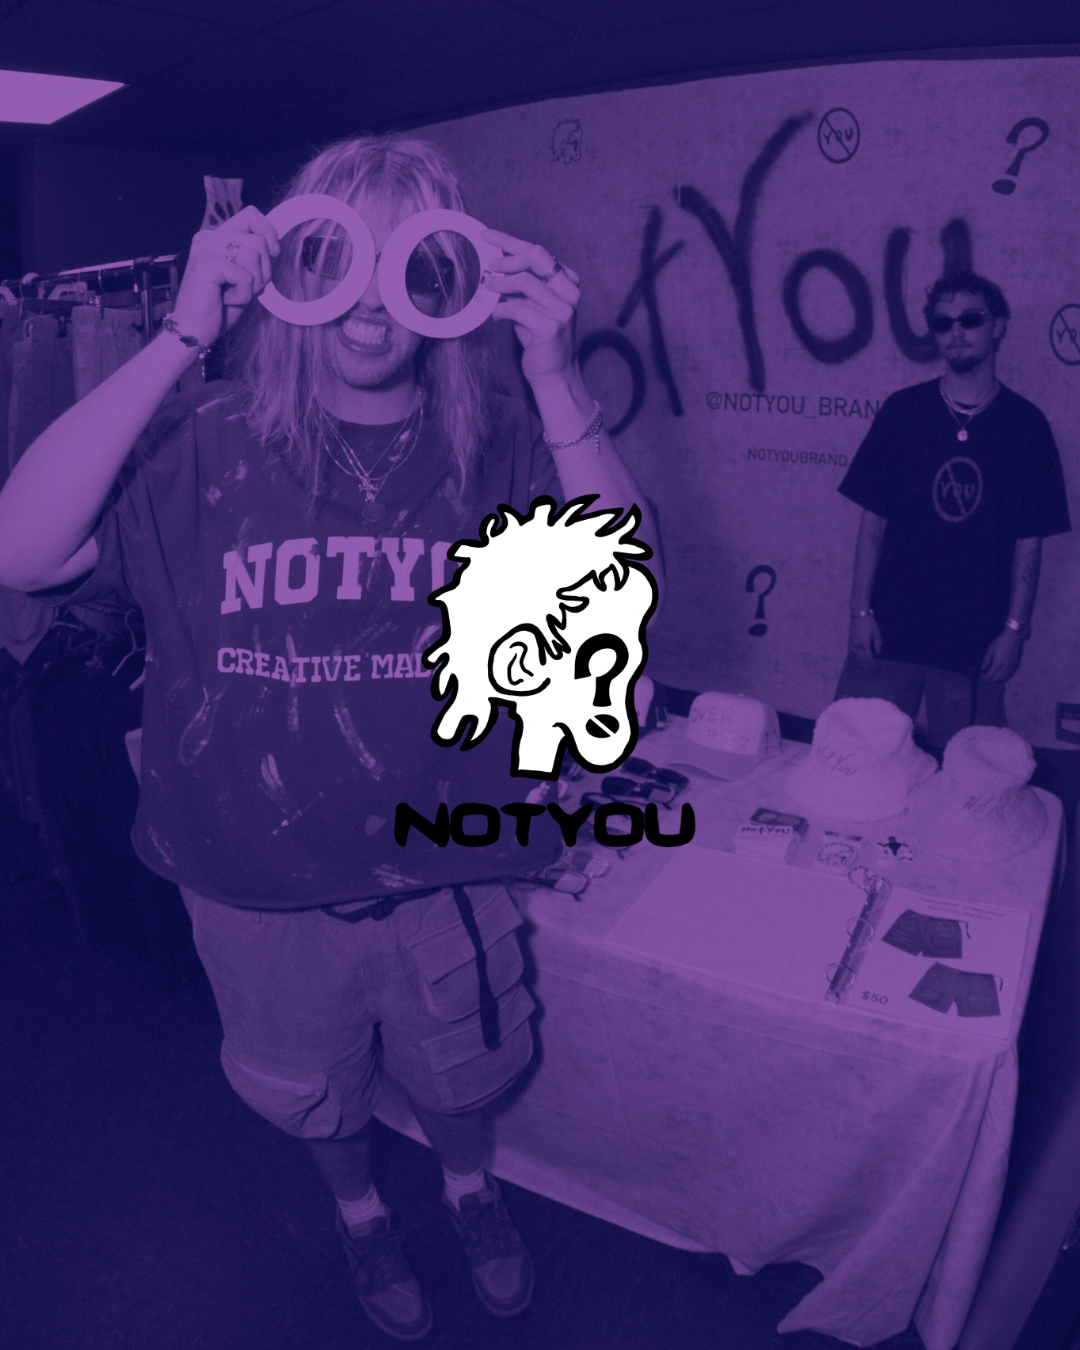
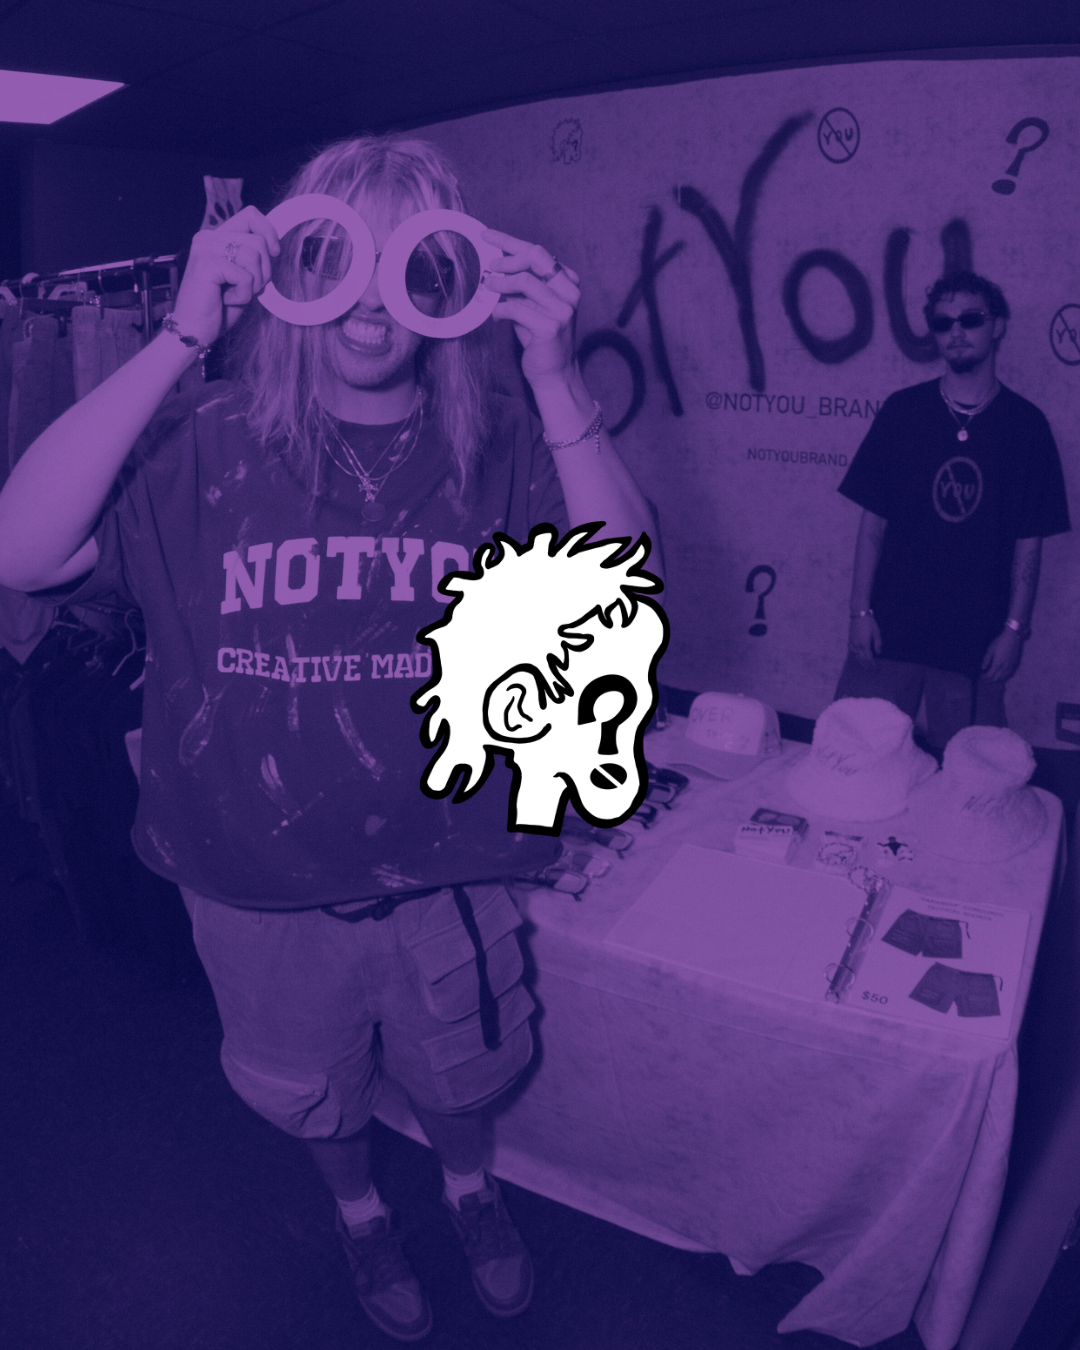
case studies cards

Changed region(s): [[0.3667, 0.3422, 0.6417, 0.6533]]

diff --git a/content/case-studies.ts b/content/case-studies.ts
@@ -461,14 +461,36 @@ export const clientLogos = [
 // Auto-sliding artwork gallery under the hero. One vertical artwork per client
 // (owner-supplied); the clothing-brand industry image is the placeholder until
 // the real set lands.
-// Portrait brand cards for the marquee under the /case-studies hero. Source
-// PNGs are 1080x1350 (4:5), copied in at full weight while the format is being
-// tested. OWNER: compress before launch (notyou.png alone is 1.6MB).
+/**
+ * Portrait brand cards for the marquee under the /case-studies hero. 1080x1350
+ * (4:5) WebP at q82, converted from the source PNGs (19MB down to 1.2MB).
+ *
+ * The order alternates light and dark rather than running alphabetically. Seven
+ * of these are near-black and eight are light, so two darks side by side read as
+ * one wide card. Fifteen items can't alternate perfectly around a loop, so the
+ * one same-tone seam is placed between the two least similar lights: Maodus
+ * (the cream sketch) wrapping back to Jimi Blake (dusk garden).
+ */
 export const csGallery = {
   items: [
-    { image: "/case-study-cards/belistria.png", alt: "Bel'Istria" },
-    { image: "/case-study-cards/777.png", alt: "777 Lucky Club" },
-    { image: "/case-study-cards/notyou.png", alt: "NotYou Brand" },
+    { image: "/case-study-cards/jimi-blake.webp", alt: "Jimi Blake" },
+    { image: "/case-study-cards/techtonnik.webp", alt: "Techtonnik" },
+    { image: "/case-study-cards/foxstays.webp", alt: "FoxStays" },
+    { image: "/case-study-cards/atw.webp", alt: "ATW Trucking" },
+    { image: "/case-study-cards/jim-steele.webp", alt: "Jim Steele" },
+    { image: "/case-study-cards/belistria.webp", alt: "Bel'Istria" },
+    { image: "/case-study-cards/yacht-junky.webp", alt: "Yacht Junky" },
+    { image: "/case-study-cards/notyou.webp", alt: "NotYou Brand" },
+    { image: "/case-study-cards/lmfhr.webp", alt: "LMF HR" },
+    { image: "/case-study-cards/777.webp", alt: "777 Lucky Club" },
+    { image: "/case-study-cards/genroks.webp", alt: "Genroks AI" },
+    {
+      image: "/case-study-cards/wellington-web-co.webp",
+      alt: "Wellington Web Co",
+    },
+    { image: "/case-study-cards/stilby.webp", alt: "Stilby" },
+    { image: "/case-study-cards/capacity.webp", alt: "Capacity" },
+    { image: "/case-study-cards/maodus.webp", alt: "Destilerija Maodus" },
   ],
 };
 
